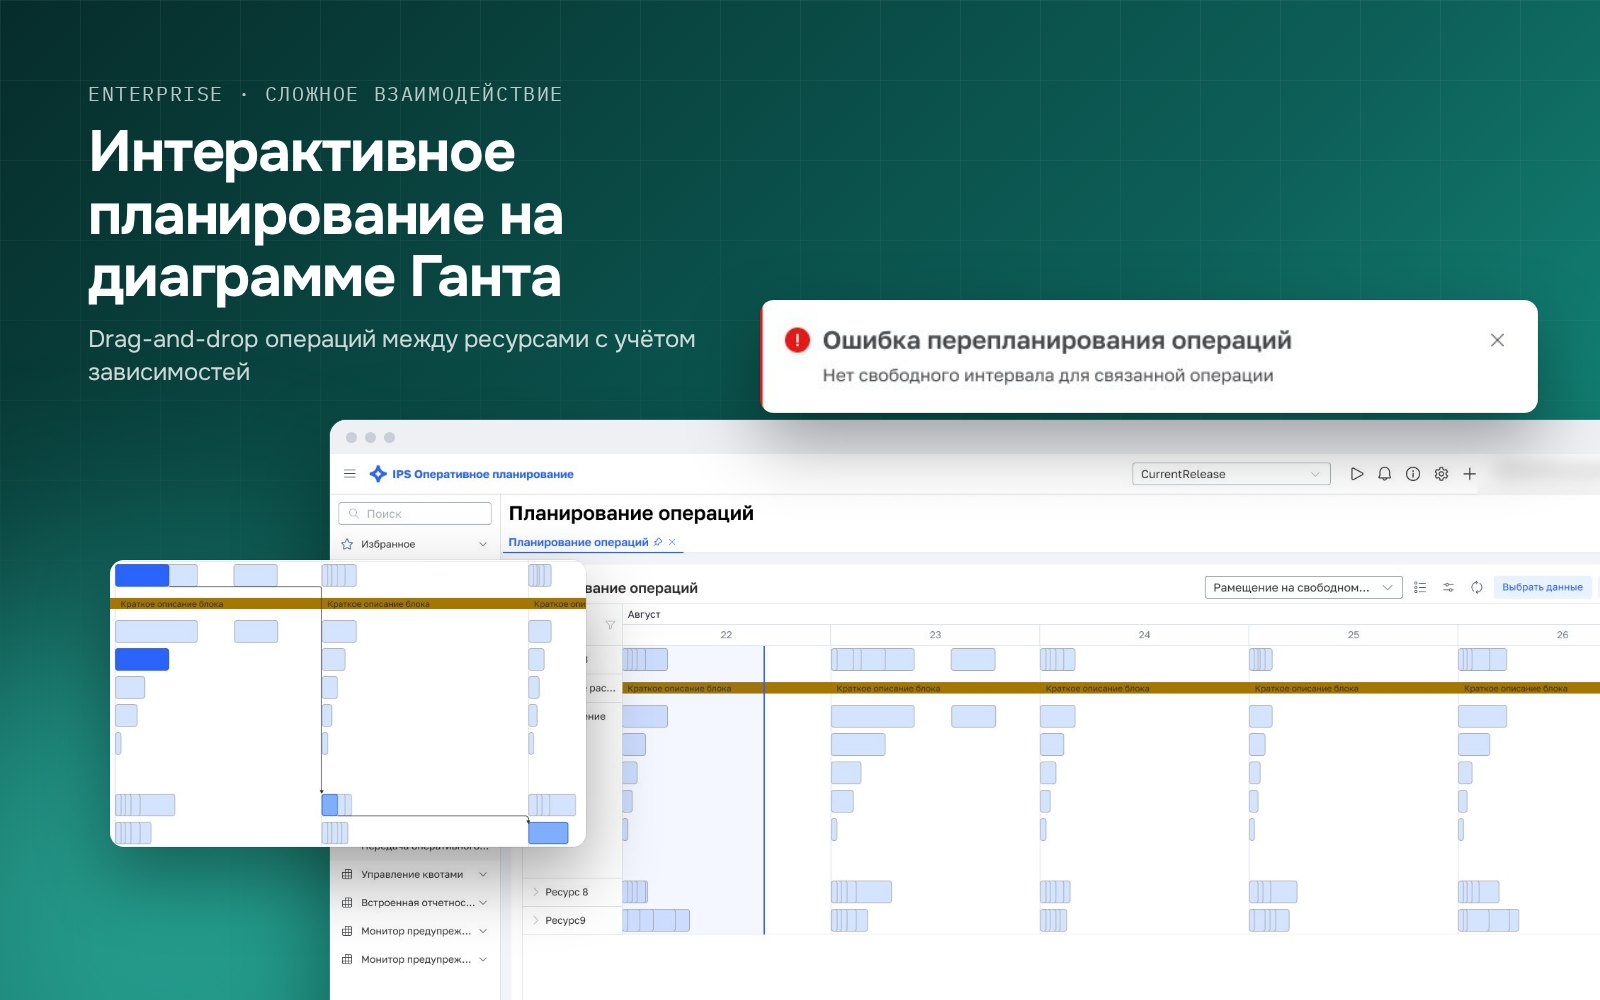
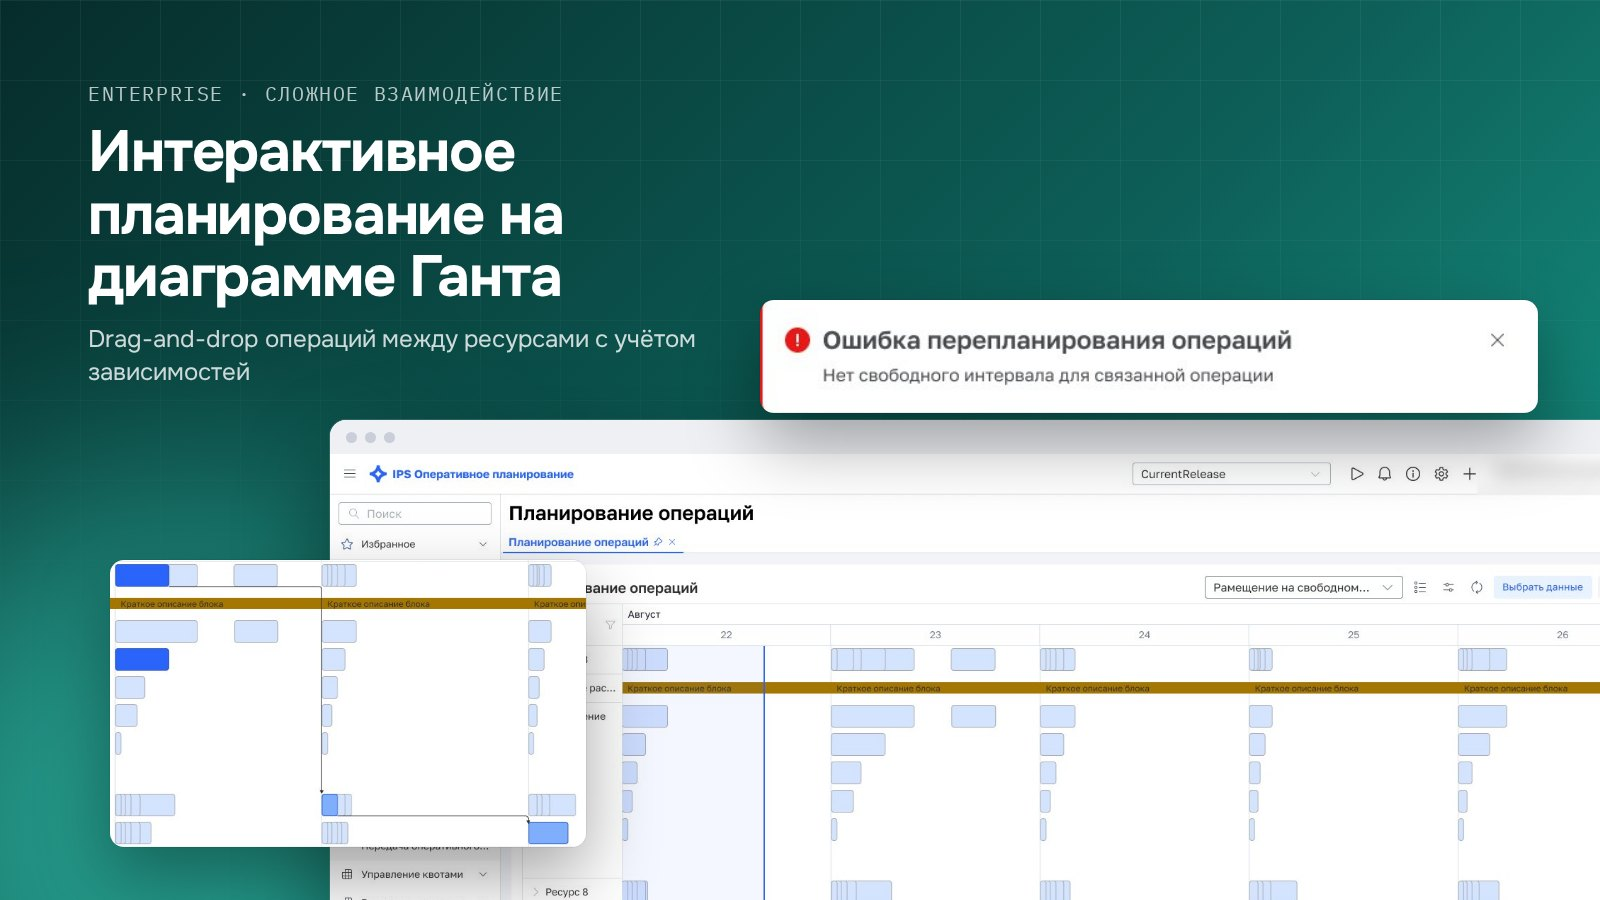
Use Figma covers and screens for fintech cases
- Replace typographic BNPL and banking covers with Figma mockup covers
- Add screen galleries to BNPL and banking cases; client names blurred
- Switch all covers to 16:9 and rebuild IPS covers
- Cover script no longer generates fintech covers

Claude-Session: https://claude.ai/code/session_015S7ALq2UfFAV998sLhVMiE

diff --git a/index.html b/index.html
@@ -140,7 +140,7 @@ footer{padding-block:48px 64px;border-top:1px solid var(--line);color:var(--mute
 /* case covers */
 .covers{display:grid;grid-template-columns:repeat(2,minmax(0,1fr));gap:20px}
 .cover-card{display:grid;gap:14px;align-content:start;text-decoration:none;color:var(--fg)}
-.cover-card img{border-radius:14px;aspect-ratio:16/10;object-fit:cover;width:100%;transition:transform .25s ease,box-shadow .25s ease}
+.cover-card img{border-radius:14px;aspect-ratio:16/9;object-fit:cover;width:100%;transition:transform .25s ease,box-shadow .25s ease}
 .cover-card:hover img{transform:translateY(-3px);box-shadow:0 18px 40px rgba(20,30,60,.18)}
 .cover-card div{display:grid;gap:4px}
 .cover-card h3{font-size:20px;font-weight:600}
@@ -157,7 +157,7 @@ footer{padding-block:48px 64px;border-top:1px solid var(--line);color:var(--mute
 .modules li::before{content:"";position:absolute;left:0;top:20px;width:8px;height:8px;border-radius:2px;background:var(--plan)}
 .modules b{font-weight:600}
 .modules span{font-size:15px;color:var(--muted)}
-.case-cover{border-radius:16px;width:100%;aspect-ratio:16/10;object-fit:cover}
+.case-cover{border-radius:16px;width:100%;aspect-ratio:16/9;object-fit:cover}
 .summary{display:grid;grid-template-columns:repeat(3,minmax(0,1fr));gap:24px;padding:20px 0;border-block:1px solid var(--line)}
 .summary > div{display:grid;gap:6px;align-content:start}
 .summary p:not(.mono){font-size:16px}
@@ -283,11 +283,11 @@ footer{padding-block:48px 64px;border-top:1px solid var(--line);color:var(--mute
       <p class="prose" style="color:var(--muted)">Экраны показаны с демонстрационными данными. Внутренние адреса и имена сотрудников скрыты.</p>
     </div>
     <div class="covers">
-      <a class="cover-card wide" href="#case-rakurs"><img src="assets/img/covers/rakurs.jpg" alt="" width="1600" height="1000"><div><span class="mono">Enterprise · аналитика</span><h3>Ракурс 2.0: редизайн сводной аналитической таблицы</h3></div></a>
-      <a class="cover-card" href="#case-bnpl"><img src="assets/img/covers/bnpl.jpg" alt="" width="1600" height="1000" loading="lazy"><div><span class="mono">Финтех · mobile</span><h3>Сервис оплаты покупок частями</h3></div></a>
-      <a class="cover-card" href="#case-bank"><img src="assets/img/covers/bank.jpg" alt="" width="1600" height="1000" loading="lazy"><div><span class="mono">Финтех · mobile и web</span><h3>Дистанционное банковское обслуживание</h3></div></a>
-      <a class="cover-card" href="#case-gantt"><img src="assets/img/covers/gantt.jpg" alt="" width="1600" height="1000" loading="lazy"><div><span class="mono">Enterprise · взаимодействие</span><h3>Интерактивное планирование на диаграмме Ганта</h3></div></a>
-      <a class="cover-card" href="#case-ds"><img src="assets/img/covers/ds.jpg" alt="" width="1600" height="1000" loading="lazy"><div><span class="mono">Дизайн-система</span><h3>Токены и процесс обновления компонентов</h3></div></a>
+      <a class="cover-card wide" href="#case-rakurs"><img src="assets/img/covers/rakurs.jpg" alt="" width="1600" height="900"><div><span class="mono">Enterprise · аналитика</span><h3>Ракурс 2.0: редизайн сводной аналитической таблицы</h3></div></a>
+      <a class="cover-card" href="#case-bnpl"><img src="assets/img/covers/bnpl.jpg" alt="" width="1920" height="1080" loading="lazy"><div><span class="mono">Финтех · mobile</span><h3>Сервис оплаты покупок частями</h3></div></a>
+      <a class="cover-card" href="#case-bank"><img src="assets/img/covers/bank.jpg" alt="" width="1920" height="1080" loading="lazy"><div><span class="mono">Финтех · mobile и web</span><h3>Дистанционное банковское обслуживание</h3></div></a>
+      <a class="cover-card" href="#case-gantt"><img src="assets/img/covers/gantt.jpg" alt="" width="1600" height="900" loading="lazy"><div><span class="mono">Enterprise · взаимодействие</span><h3>Интерактивное планирование на диаграмме Ганта</h3></div></a>
+      <a class="cover-card" href="#case-ds"><img src="assets/img/covers/ds.jpg" alt="" width="1600" height="900" loading="lazy"><div><span class="mono">Дизайн-система</span><h3>Токены и процесс обновления компонентов</h3></div></a>
     </div>
 
     <div class="ips">
@@ -310,7 +310,7 @@ footer{padding-block:48px 64px;border-top:1px solid var(--line);color:var(--mute
 <!-- CASE: RAKURS -->
 <section class="case" id="case-rakurs">
   <div class="wrap">
-    <img class="case-cover" src="assets/img/covers/rakurs.jpg" alt="Обложка кейса «Ракурс 2.0»" width="1600" height="1000" loading="lazy">
+    <img class="case-cover" src="assets/img/covers/rakurs.jpg" alt="Обложка кейса «Ракурс 2.0»" width="1600" height="900" loading="lazy">
     <div class="case-head">
       <p class="mono">Кейс 1 · IPS · 2026 · концепция и бэклог</p>
       <h2>Ракурс 2.0: редизайн сводной аналитической таблицы</h2>
@@ -371,7 +371,7 @@ footer{padding-block:48px 64px;border-top:1px solid var(--line);color:var(--mute
 <!-- CASE: BNPL -->
 <section class="case" id="case-bnpl">
   <div class="wrap">
-    <img class="case-cover" src="assets/img/covers/bnpl.jpg" alt="Обложка кейса «Сервис оплаты покупок частями»" width="1600" height="1000" loading="lazy">
+    <img class="case-cover" src="assets/img/covers/bnpl.jpg" alt="Обложка кейса «Сервис оплаты покупок частями»" width="1920" height="1080" loading="lazy">
     <div class="case-head">
       <p class="mono">Кейс 2 · SimbirSoft · финтех · mobile</p>
       <h2>Сервис оплаты покупок частями</h2>
@@ -401,13 +401,21 @@ footer{padding-block:48px 64px;border-top:1px solid var(--line);color:var(--mute
         </ul>
       </div>
     </div>
+    <figure class="fig">
+      <img src="assets/img/fintech/bnpl-1.jpg" alt="Три экрана покупки в рассрочку: график платежей, просроченный платёж со штрафом и выбор варианта погашения" loading="lazy" width="1920" height="1080">
+      <figcaption>Карточка покупки: график платежей, состояние просрочки и выбор варианта досрочного погашения.</figcaption>
+    </figure>
+    <figure class="fig">
+      <img src="assets/img/fintech/bnpl-2.jpg" alt="Три экрана: каталог магазинов-партнёров, карточка магазина и оплата по QR-коду" loading="lazy" width="1920" height="1080">
+      <figcaption>Каталог партнёров, карточка магазина и оплата по QR-коду на кассе.</figcaption>
+    </figure>
   </div>
 </section>
 
 <!-- CASE: BANK -->
 <section class="case" id="case-bank">
   <div class="wrap">
-    <img class="case-cover" src="assets/img/covers/bank.jpg" alt="Обложка кейса «Дистанционное банковское обслуживание»" width="1600" height="1000" loading="lazy">
+    <img class="case-cover" src="assets/img/covers/bank.jpg" alt="Обложка кейса «Дистанционное банковское обслуживание»" width="1920" height="1080" loading="lazy">
     <div class="case-head">
       <p class="mono">Кейс 3 · SimbirSoft · финтех · mobile и web</p>
       <h2>Дистанционное банковское обслуживание</h2>
@@ -437,13 +445,29 @@ footer{padding-block:48px 64px;border-top:1px solid var(--line);color:var(--mute
         </ul>
       </div>
     </div>
+    <figure class="fig">
+      <img src="assets/img/fintech/bank-mobile-1.jpg" alt="Три экрана мобильного банка: главный экран с картами, карточка вклада с историей операций, чат поддержки" loading="lazy" width="1920" height="1080">
+      <figcaption>Мобильный банк: главный экран, вклад с историей операций, чат поддержки.</figcaption>
+    </figure>
+    <figure class="fig">
+      <img src="assets/img/fintech/bank-mobile-2.jpg" alt="Три экрана: переводы по номеру телефона через СБП, карточка карты с расходами за месяц, управление картой" loading="lazy" width="1920" height="1080">
+      <figcaption>Переводы через СБП, карточка с аналитикой расходов и управление картой.</figcaption>
+    </figure>
+    <figure class="fig">
+      <img src="assets/img/fintech/bank-web-cover.jpg" alt="Интернет-банк на ноутбуке: раздел переводов, форма отложенного перевода" loading="lazy" width="1920" height="1080">
+      <figcaption>Интернет-банк: раздел переводов и отложенный перевод.</figcaption>
+    </figure>
+    <figure class="fig">
+      <img src="assets/img/fintech/bank-web-2.jpg" alt="Мобильная версия интернет-банка: личный кабинет, ввод кода отложенного перевода, реквизиты" loading="lazy" width="1920" height="1080">
+      <figcaption>Мобильная адаптация: личный кабинет, получение отложенного перевода, реквизиты.</figcaption>
+    </figure>
   </div>
 </section>
 
 <!-- CASE: GANTT -->
 <section class="case" id="case-gantt">
   <div class="wrap">
-    <img class="case-cover" src="assets/img/covers/gantt.jpg" alt="Обложка кейса «Интерактивное планирование на диаграмме Ганта»" width="1600" height="1000" loading="lazy">
+    <img class="case-cover" src="assets/img/covers/gantt.jpg" alt="Обложка кейса «Интерактивное планирование на диаграмме Ганта»" width="1600" height="900" loading="lazy">
     <div class="case-head">
       <p class="mono">Кейс 4 · IPS · 08.2024 — 07.2025 · передано в разработку</p>
       <h2>Интерактивное планирование на диаграмме Ганта</h2>
@@ -490,7 +514,7 @@ footer{padding-block:48px 64px;border-top:1px solid var(--line);color:var(--mute
 <!-- CASE: DS -->
 <section class="case" id="case-ds">
   <div class="wrap">
-    <img class="case-cover" src="assets/img/covers/ds.jpg" alt="Обложка кейса «Дизайн-система ИЦК»" width="1600" height="1000" loading="lazy">
+    <img class="case-cover" src="assets/img/covers/ds.jpg" alt="Обложка кейса «Дизайн-система ИЦК»" width="1600" height="900" loading="lazy">
     <div class="case-head">
       <p class="mono">Кейс 5 · дизайн-система ИЦК · командный проект</p>
       <h2>Токены и процесс обновления компонентов</h2>

diff --git a/tools/build-covers.js b/tools/build-covers.js
@@ -1,17 +1,14 @@
-// Собирает обложки кейсов в assets/img/covers/*.jpg (1600×1000).
+// Собирает обложки IPS-кейсов в assets/img/covers/*.jpg (1600×900, 16:9 как обложки из Figma).
 // Запуск из корня репозитория: NODE_PATH=$(npm root -g) node tools/build-covers.js
-// Обложки финтех-кейсов используют PNG из assets/img/fintech/, если они есть.
-// Без них собирается типографская обложка.
 const { chromium } = require('playwright');
 const fs = require('fs');
 const path = require('path');
 
 const root = path.resolve(__dirname, '..');
 const img = (p) => 'file://' + path.join(root, 'assets/img', p);
-const has = (p) => fs.existsSync(path.join(root, 'assets/img', p));
 const fonts = 'file://' + path.join(root, 'assets/fonts/fonts.css');
 
-const W = 1600, H = 1000;
+const W = 1600, H = 900;
 
 // Фрагмент скриншота 1920×1002: x, y, w, h в пикселях исходника, scale — увеличение
 const crop = (file, x, y, w, h, scale = 1) => `
@@ -25,7 +22,6 @@ const browser = (file, width) => `
     <img src="${img(file)}">
   </div>`;
 
-const phone = (file) => `<div class="phone"><img src="${img(file)}"></div>`;
 
 const base = (bg, body) => `<!doctype html><html><head><meta charset="utf-8">
 <link rel="stylesheet" href="${fonts}">
@@ -86,33 +82,15 @@ const covers = {
     <div class="browser" style="left:900px;top:120px;width:560px">
       <div class="chrome"><i></i><i></i><i></i></div>
       <div style="height:900px;background:url('${img('ds-tokens-spec.jpg')}') no-repeat top/100% auto"></div></div>
-    <div class="float" style="left:88px;top:500px;display:grid;gap:18px">
+    <div class="float" style="left:88px;top:430px;display:grid;gap:18px">
       <p class="code" style="opacity:.55;text-decoration:line-through">--dropdown-padding-menu-horizont</p>
       <p class="code">--dropdown-menu-padding_h</p>
       <p class="code">--fild-border-color-hover</p>
     </div>
-    <div class="chip" style="left:88px;top:790px"><b>95&nbsp;%</b><span>корпоративных систем на ДС · результат команды</span></div>`),
+    <div class="chip" style="left:88px;top:720px"><b>95&nbsp;%</b><span>корпоративных систем на ДС · результат команды</span></div>`),
 };
 
-// Финтех-кейсы: телефоны или браузер, если PNG уже лежат в assets/img/fintech/
-const fintech = [
-  { id: 'bnpl', bg: 'linear-gradient(135deg,#3a0d1f 0%,#b3283c 55%,#ff7a45 100%)',
-    tag: 'Финтех · mobile · BNPL', title: 'Сервис оплаты покупок частями',
-    sub: 'Мобильное приложение: график платежей, история покупок, напоминания',
-    phones: ['fintech/bnpl-1.png', 'fintech/bnpl-2.png', 'fintech/bnpl-3.png'] },
-  { id: 'bank', bg: 'linear-gradient(135deg,#07142b 0%,#123a73 55%,#2f7de0 100%)',
-    tag: 'Финтех · mobile и web · банкинг', title: 'Дистанционное банковское обслуживание',
-    sub: 'Мобильный банк, интернет-банк и онлайн-кредитование',
-    phones: ['fintech/bank-mobile-1.png', 'fintech/bank-mobile-2.png'], web: 'fintech/bank-web-1.png' },
-];
-for (const f of fintech) {
-  const shots = f.phones.filter(has);
-  let visual = '';
-  if (f.web && has(f.web)) visual += `<div style="position:absolute;left:560px;top:430px">${browser(f.web, 1100)}</div>`;
-  if (shots.length) visual += `<div class="phones">${shots.map(phone).join('')}</div>`;
-  if (!visual) visual = `<div class="glow" style="width:820px;height:820px;right:-160px;bottom:-260px;background:rgba(255,255,255,.35)"></div>`;
-  covers[f.id] = base(f.bg, `<div class="grid"></div>${label(f.tag, f.title, f.sub)}${visual}`);
-}
+// Обложки финтех-кейсов (bnpl.jpg, bank.jpg) экспортированы из Figma и этим скриптом не генерируются.
 
 (async () => {
   const out = path.join(root, 'assets/img/covers');

diff --git a/README.md b/README.md
@@ -6,7 +6,8 @@
 | `resume.pdf` | Резюме на одну страницу A4 для откликов и ATS. Собирается из `resume.html` |
 | `notion-page.md` | Текст резюме и кейсов для вставки в Notion и в поля hh.ru |
 | `assets/img/` | Экраны из Figma. Строка браузера с внутренним адресом обрезана, ФИО и почты размыты |
-| `assets/img/covers/` | Обложки кейсов 1600×1000, собираются скриптом `tools/build-covers.js` |
+| `assets/img/covers/` | Обложки кейсов 16:9 |
+| `assets/img/fintech/` | Экраны финтех-кейсов из Figma |
 
 ## Позиционирование
 
@@ -15,23 +16,16 @@
 - Контакты, опыт и образование перенесены из прошлой версии резюме в Notion. Копия прошлой версии лежит в Notion отдельной страницей «Архив».
 - Портфолио пока приватное. Ссылка «Портфолио» в резюме ведёт на страницу в Notion.
 
-## Как пересобрать обложки кейсов
+## Обложки и экраны кейсов
 
-Макеты финтех-кейсов положить в `assets/img/fintech/`:
-
-| Файл | Что это |
-|---|---|
-| `bnpl-1.png` … `bnpl-3.png` | Экраны мобильного приложения BNPL |
-| `bank-mobile-1.png`, `bank-mobile-2.png` | Экраны мобильного банка |
-| `bank-web-1.png` | Главный экран интернет-банка |
-
-Затем выполнить:
+- Финтех-кейсы: обложки `assets/img/covers/bnpl.jpg`, `bank.jpg` и экраны в `assets/img/fintech/` экспортированы из Figma (файл «Обложки для кейсов»). Название банка-клиента и BNPL-сервиса размыто.
+- IPS-кейсы: обложки `rakurs.jpg`, `gantt.jpg`, `ds.jpg` собираются из скриншотов скриптом:
 
 ```bash
 NODE_PATH=$(npm root -g) node tools/build-covers.js
 ```
 
-Если файлов нет, собирается типографская обложка без экранов.
+Все обложки в формате 16:9.
 
 ## Как пересобрать PDF
 
